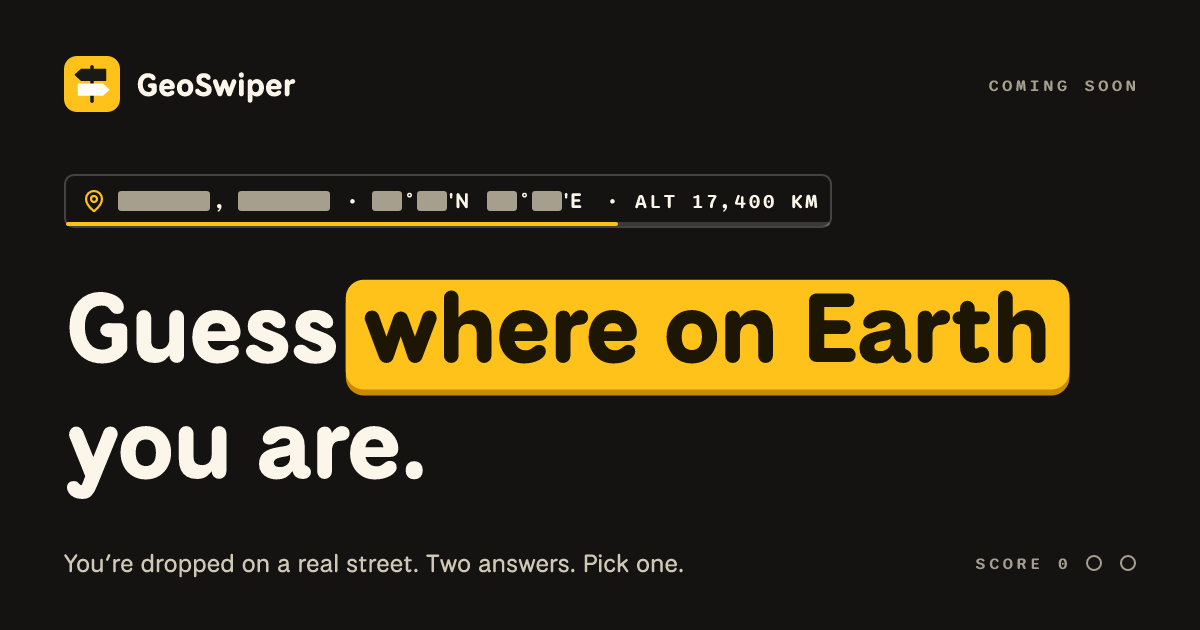
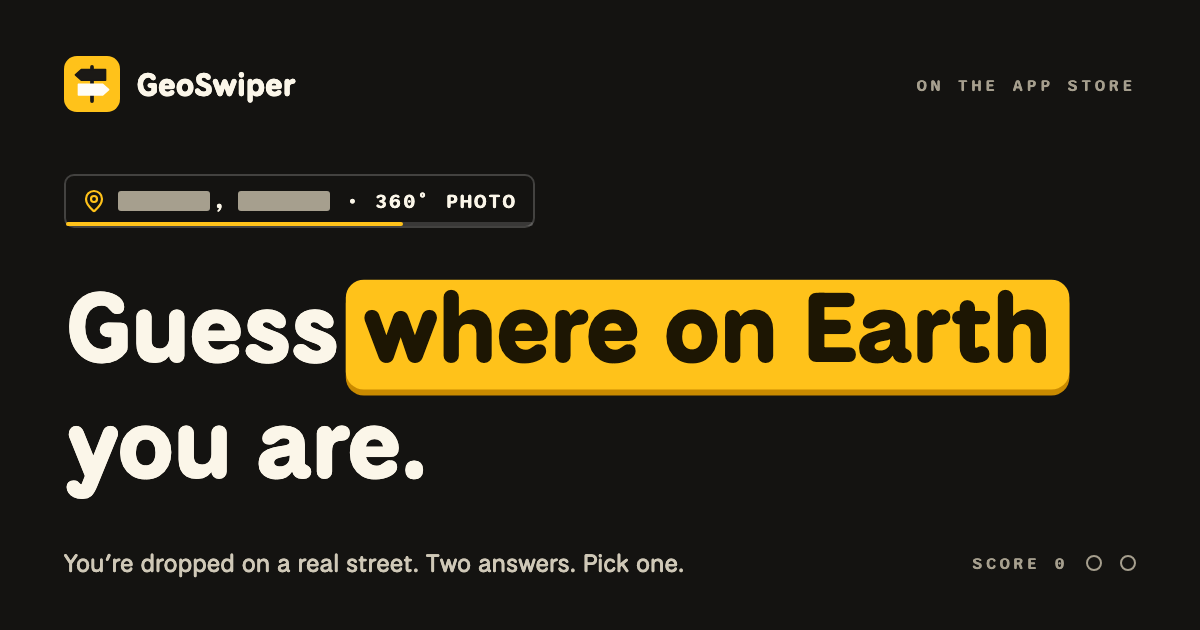
Homepage: App Store link live, no coordinates on the hero
Every App Store button now links to the live listing, also without
JavaScript. The hero's location chip and the share image no longer show
coordinates, and the share image says the app is on the App Store.

diff --git a/index.html b/index.html
@@ -4,7 +4,7 @@
 <meta charset="utf-8">
 <meta name="viewport" content="width=device-width, initial-scale=1, viewport-fit=cover">
 <title>GeoSwiper: guess where on Earth you are</title>
-<meta name="description" content="GeoSwiper drops you onto a real street somewhere in the world. Look around, walk down the road, and pick one of two answers before the clock runs out. Coming soon to the App Store and Google Play.">
+<meta name="description" content="GeoSwiper drops you onto a real street somewhere in the world. Look around, walk down the road, and pick one of two answers before the clock runs out. On the App Store now; coming soon to Google Play.">
 <link rel="canonical" href="https://geoswiper.com/">
 <!-- the top of this page is the night header of the stage in both themes, so the browser bar is night too -->
 <meta name="theme-color" content="#141311" data-fixed>
@@ -70,14 +70,13 @@
   <a class="skip skip--stage" href="#answers">Skip to the two answers</a>
 
   <!-- The header: its own row above the window, in the stage's night, so the first screen is one piece
-       with the paper dock below. The App Store button reads "Coming soon" until APP_STORE_URL is set
-       in assets/site.js. -->
+       with the paper dock below. The App Store button links to APP_STORE_URL in assets/site.js. -->
   <header class="site-header">
     <div class="bar">
       <a class="brand" href="/" aria-label="GeoSwiper home"><picture><source srcset="/assets/icon-96.webp" type="image/webp"><img src="/icon-192.png" width="192" height="192" alt=""></picture><span>GeoSwiper</span></a>
       <nav class="nav-links" aria-label="Primary"><a href="#rules">The rules</a></nav>
       <button type="button" class="iconbtn theme-toggle" data-theme-toggle hidden aria-label="Switch to dark theme"><svg class="i" aria-hidden="true"><use href="#i-moon"/></svg></button>
-      <a class="store" href="#get" data-app-store><svg class="mark" viewBox="0 0 24 24" aria-hidden="true" focusable="false"><path d="M12.152 6.896c-.948 0-2.415-1.078-3.96-1.04-2.04.027-3.91 1.183-4.961 3.014-2.117 3.675-.546 9.103 1.519 12.09 1.013 1.454 2.208 3.09 3.792 3.039 1.52-.065 2.09-.987 3.935-.987 1.831 0 2.35.987 3.96.948 1.637-.026 2.676-1.48 3.676-2.948 1.156-1.688 1.636-3.325 1.662-3.415-.039-.013-3.182-1.221-3.22-4.857-.026-3.04 2.48-4.494 2.597-4.559-1.429-2.09-3.623-2.324-4.39-2.376-2-.156-3.675 1.09-4.61 1.09zM15.53 3.83c.843-1.012 1.4-2.427 1.245-3.83-1.207.052-2.662.805-3.532 1.818-.78.896-1.454 2.338-1.273 3.714 1.338.104 2.715-.688 3.559-1.701"/></svg><span class="store-t"><small data-store-line>Coming soon</small> <b>App Store</b></span></a>
+      <a class="store" href="https://apps.apple.com/us/app/geoswiper/id6787602895" data-app-store data-live><svg class="mark" viewBox="0 0 24 24" aria-hidden="true" focusable="false"><path d="M12.152 6.896c-.948 0-2.415-1.078-3.96-1.04-2.04.027-3.91 1.183-4.961 3.014-2.117 3.675-.546 9.103 1.519 12.09 1.013 1.454 2.208 3.09 3.792 3.039 1.52-.065 2.09-.987 3.935-.987 1.831 0 2.35.987 3.96.948 1.637-.026 2.676-1.48 3.676-2.948 1.156-1.688 1.636-3.325 1.662-3.415-.039-.013-3.182-1.221-3.22-4.857-.026-3.04 2.48-4.494 2.597-4.559-1.429-2.09-3.623-2.324-4.39-2.376-2-.156-3.675 1.09-4.61 1.09zM15.53 3.83c.843-1.012 1.4-2.427 1.245-3.83-1.207.052-2.662.805-3.532 1.818-.78.896-1.454 2.338-1.273 3.714 1.338.104 2.715-.688 3.559-1.701"/></svg><span class="store-t"><small data-store-line>Download on the</small> <b>App Store</b></span></a>
     </div>
   </header>
 
@@ -128,7 +127,7 @@
       <button type="button" class="btn btn--go" id="next" hidden>Next place <svg class="i" aria-hidden="true"><use href="#i-arrow-right"/></svg></button>
       <div class="ends" id="ends" hidden>
         <button type="button" class="btn btn--go" id="again"><svg class="i" aria-hidden="true"><use href="#i-rotate"/></svg><span>Try again</span></button>
-        <a class="btn btn--line" id="soon" href="#get">The app is coming soon</a>
+        <a class="btn btn--line" id="soon" href="https://apps.apple.com/us/app/geoswiper/id6787602895">Get the app on the App Store</a>
       </div>
     </div>
     <div class="dock-meta">
@@ -164,9 +163,9 @@
   <div class="wrap get-inner">
     <picture><source srcset="/assets/icon-168.webp" type="image/webp"><img class="get-icon" src="/icon-192.png" width="192" height="192" alt="" loading="lazy" decoding="async"></picture>
     <h2 id="get-h">Think you know the world?</h2>
-    <p class="lede">GeoSwiper is coming soon to the App Store and Google Play.</p>
+    <p class="lede">GeoSwiper is out now on the App Store, and coming soon to Google Play.</p>
     <ul class="plaques" aria-label="Availability">
-      <li class="plaque" data-app-store><svg class="mark" viewBox="0 0 24 24" aria-hidden="true" focusable="false"><path d="M12.152 6.896c-.948 0-2.415-1.078-3.96-1.04-2.04.027-3.91 1.183-4.961 3.014-2.117 3.675-.546 9.103 1.519 12.09 1.013 1.454 2.208 3.09 3.792 3.039 1.52-.065 2.09-.987 3.935-.987 1.831 0 2.35.987 3.96.948 1.637-.026 2.676-1.48 3.676-2.948 1.156-1.688 1.636-3.325 1.662-3.415-.039-.013-3.182-1.221-3.22-4.857-.026-3.04 2.48-4.494 2.597-4.559-1.429-2.09-3.623-2.324-4.39-2.376-2-.156-3.675 1.09-4.61 1.09zM15.53 3.83c.843-1.012 1.4-2.427 1.245-3.83-1.207.052-2.662.805-3.532 1.818-.78.896-1.454 2.338-1.273 3.714 1.338.104 2.715-.688 3.559-1.701"/></svg><span><small data-store-line>Coming soon</small> <b>App Store</b></span></li>
+      <li class="plaque" data-app-store><svg class="mark" viewBox="0 0 24 24" aria-hidden="true" focusable="false"><path d="M12.152 6.896c-.948 0-2.415-1.078-3.96-1.04-2.04.027-3.91 1.183-4.961 3.014-2.117 3.675-.546 9.103 1.519 12.09 1.013 1.454 2.208 3.09 3.792 3.039 1.52-.065 2.09-.987 3.935-.987 1.831 0 2.35.987 3.96.948 1.637-.026 2.676-1.48 3.676-2.948 1.156-1.688 1.636-3.325 1.662-3.415-.039-.013-3.182-1.221-3.22-4.857-.026-3.04 2.48-4.494 2.597-4.559-1.429-2.09-3.623-2.324-4.39-2.376-2-.156-3.675 1.09-4.61 1.09zM15.53 3.83c.843-1.012 1.4-2.427 1.245-3.83-1.207.052-2.662.805-3.532 1.818-.78.896-1.454 2.338-1.273 3.714 1.338.104 2.715-.688 3.559-1.701"/></svg><span><small data-store-line>Download on the</small> <b>App Store</b></span></li>
       <li class="plaque"><svg class="mark" viewBox="0 0 24 24" aria-hidden="true" focusable="false"><path d="M22.018 13.298l-3.919 2.218-3.515-3.493 3.543-3.521 3.891 2.202a1.49 1.49 0 0 1 0 2.594zM1.337.924a1.486 1.486 0 0 0-.112.568v21.017c0 .217.045.419.124.6l11.155-11.087L1.337.924zm12.207 10.065l3.258-3.238L3.45.195a1.466 1.466 0 0 0-.946-.179l11.04 10.973zm0 2.067l-11 10.933c.298.036.612-.016.906-.183l13.324-7.54-3.23-3.21z"/></svg><span><small>Coming soon</small> <b>Google Play</b></span></li>
     </ul>
   </div>

diff --git a/credits/index.html b/credits/index.html
@@ -45,7 +45,7 @@
     <a class="brand" href="/" aria-label="GeoSwiper home"><picture><source srcset="/assets/icon-96.webp" type="image/webp"><img src="/icon-192.png" width="192" height="192" alt=""></picture><span>GeoSwiper</span></a>
     <nav class="nav-links" aria-label="Primary"><a href="/">Play a round</a><a href="/#rules">The rules</a></nav>
     <button type="button" class="iconbtn theme-toggle" data-theme-toggle hidden aria-label="Switch to dark theme"><svg class="i" aria-hidden="true"><use href="#i-moon"/></svg></button>
-    <a class="store" href="/#get" data-app-store><svg class="mark" viewBox="0 0 24 24" aria-hidden="true" focusable="false"><path d="M12.152 6.896c-.948 0-2.415-1.078-3.96-1.04-2.04.027-3.91 1.183-4.961 3.014-2.117 3.675-.546 9.103 1.519 12.09 1.013 1.454 2.208 3.09 3.792 3.039 1.52-.065 2.09-.987 3.935-.987 1.831 0 2.35.987 3.96.948 1.637-.026 2.676-1.48 3.676-2.948 1.156-1.688 1.636-3.325 1.662-3.415-.039-.013-3.182-1.221-3.22-4.857-.026-3.04 2.48-4.494 2.597-4.559-1.429-2.09-3.623-2.324-4.39-2.376-2-.156-3.675 1.09-4.61 1.09zM15.53 3.83c.843-1.012 1.4-2.427 1.245-3.83-1.207.052-2.662.805-3.532 1.818-.78.896-1.454 2.338-1.273 3.714 1.338.104 2.715-.688 3.559-1.701"/></svg><span class="store-t"><small data-store-line>Coming soon</small> <b>App Store</b></span></a>
+    <a class="store" href="https://apps.apple.com/us/app/geoswiper/id6787602895" data-app-store data-live><svg class="mark" viewBox="0 0 24 24" aria-hidden="true" focusable="false"><path d="M12.152 6.896c-.948 0-2.415-1.078-3.96-1.04-2.04.027-3.91 1.183-4.961 3.014-2.117 3.675-.546 9.103 1.519 12.09 1.013 1.454 2.208 3.09 3.792 3.039 1.52-.065 2.09-.987 3.935-.987 1.831 0 2.35.987 3.96.948 1.637-.026 2.676-1.48 3.676-2.948 1.156-1.688 1.636-3.325 1.662-3.415-.039-.013-3.182-1.221-3.22-4.857-.026-3.04 2.48-4.494 2.597-4.559-1.429-2.09-3.623-2.324-4.39-2.376-2-.156-3.675 1.09-4.61 1.09zM15.53 3.83c.843-1.012 1.4-2.427 1.245-3.83-1.207.052-2.662.805-3.532 1.818-.78.896-1.454 2.338-1.273 3.714 1.338.104 2.715-.688 3.559-1.701"/></svg><span class="store-t"><small data-store-line>Download on the</small> <b>App Store</b></span></a>
   </div>
 </header>
 <main id="main" class="page">

diff --git a/privacy/index.html b/privacy/index.html
@@ -45,7 +45,7 @@
     <a class="brand" href="/" aria-label="GeoSwiper home"><picture><source srcset="/assets/icon-96.webp" type="image/webp"><img src="/icon-192.png" width="192" height="192" alt=""></picture><span>GeoSwiper</span></a>
     <nav class="nav-links" aria-label="Primary"><a href="/">Play a round</a><a href="/#rules">The rules</a></nav>
     <button type="button" class="iconbtn theme-toggle" data-theme-toggle hidden aria-label="Switch to dark theme"><svg class="i" aria-hidden="true"><use href="#i-moon"/></svg></button>
-    <a class="store" href="/#get" data-app-store><svg class="mark" viewBox="0 0 24 24" aria-hidden="true" focusable="false"><path d="M12.152 6.896c-.948 0-2.415-1.078-3.96-1.04-2.04.027-3.91 1.183-4.961 3.014-2.117 3.675-.546 9.103 1.519 12.09 1.013 1.454 2.208 3.09 3.792 3.039 1.52-.065 2.09-.987 3.935-.987 1.831 0 2.35.987 3.96.948 1.637-.026 2.676-1.48 3.676-2.948 1.156-1.688 1.636-3.325 1.662-3.415-.039-.013-3.182-1.221-3.22-4.857-.026-3.04 2.48-4.494 2.597-4.559-1.429-2.09-3.623-2.324-4.39-2.376-2-.156-3.675 1.09-4.61 1.09zM15.53 3.83c.843-1.012 1.4-2.427 1.245-3.83-1.207.052-2.662.805-3.532 1.818-.78.896-1.454 2.338-1.273 3.714 1.338.104 2.715-.688 3.559-1.701"/></svg><span class="store-t"><small data-store-line>Coming soon</small> <b>App Store</b></span></a>
+    <a class="store" href="https://apps.apple.com/us/app/geoswiper/id6787602895" data-app-store data-live><svg class="mark" viewBox="0 0 24 24" aria-hidden="true" focusable="false"><path d="M12.152 6.896c-.948 0-2.415-1.078-3.96-1.04-2.04.027-3.91 1.183-4.961 3.014-2.117 3.675-.546 9.103 1.519 12.09 1.013 1.454 2.208 3.09 3.792 3.039 1.52-.065 2.09-.987 3.935-.987 1.831 0 2.35.987 3.96.948 1.637-.026 2.676-1.48 3.676-2.948 1.156-1.688 1.636-3.325 1.662-3.415-.039-.013-3.182-1.221-3.22-4.857-.026-3.04 2.48-4.494 2.597-4.559-1.429-2.09-3.623-2.324-4.39-2.376-2-.156-3.675 1.09-4.61 1.09zM15.53 3.83c.843-1.012 1.4-2.427 1.245-3.83-1.207.052-2.662.805-3.532 1.818-.78.896-1.454 2.338-1.273 3.714 1.338.104 2.715-.688 3.559-1.701"/></svg><span class="store-t"><small data-store-line>Download on the</small> <b>App Store</b></span></a>
   </div>
 </header>
 <main id="main" class="page">

diff --git a/support/index.html b/support/index.html
@@ -45,7 +45,7 @@
     <a class="brand" href="/" aria-label="GeoSwiper home"><picture><source srcset="/assets/icon-96.webp" type="image/webp"><img src="/icon-192.png" width="192" height="192" alt=""></picture><span>GeoSwiper</span></a>
     <nav class="nav-links" aria-label="Primary"><a href="/">Play a round</a><a href="/#rules">The rules</a></nav>
     <button type="button" class="iconbtn theme-toggle" data-theme-toggle hidden aria-label="Switch to dark theme"><svg class="i" aria-hidden="true"><use href="#i-moon"/></svg></button>
-    <a class="store" href="/#get" data-app-store><svg class="mark" viewBox="0 0 24 24" aria-hidden="true" focusable="false"><path d="M12.152 6.896c-.948 0-2.415-1.078-3.96-1.04-2.04.027-3.91 1.183-4.961 3.014-2.117 3.675-.546 9.103 1.519 12.09 1.013 1.454 2.208 3.09 3.792 3.039 1.52-.065 2.09-.987 3.935-.987 1.831 0 2.35.987 3.96.948 1.637-.026 2.676-1.48 3.676-2.948 1.156-1.688 1.636-3.325 1.662-3.415-.039-.013-3.182-1.221-3.22-4.857-.026-3.04 2.48-4.494 2.597-4.559-1.429-2.09-3.623-2.324-4.39-2.376-2-.156-3.675 1.09-4.61 1.09zM15.53 3.83c.843-1.012 1.4-2.427 1.245-3.83-1.207.052-2.662.805-3.532 1.818-.78.896-1.454 2.338-1.273 3.714 1.338.104 2.715-.688 3.559-1.701"/></svg><span class="store-t"><small data-store-line>Coming soon</small> <b>App Store</b></span></a>
+    <a class="store" href="https://apps.apple.com/us/app/geoswiper/id6787602895" data-app-store data-live><svg class="mark" viewBox="0 0 24 24" aria-hidden="true" focusable="false"><path d="M12.152 6.896c-.948 0-2.415-1.078-3.96-1.04-2.04.027-3.91 1.183-4.961 3.014-2.117 3.675-.546 9.103 1.519 12.09 1.013 1.454 2.208 3.09 3.792 3.039 1.52-.065 2.09-.987 3.935-.987 1.831 0 2.35.987 3.96.948 1.637-.026 2.676-1.48 3.676-2.948 1.156-1.688 1.636-3.325 1.662-3.415-.039-.013-3.182-1.221-3.22-4.857-.026-3.04 2.48-4.494 2.597-4.559-1.429-2.09-3.623-2.324-4.39-2.376-2-.156-3.675 1.09-4.61 1.09zM15.53 3.83c.843-1.012 1.4-2.427 1.245-3.83-1.207.052-2.662.805-3.532 1.818-.78.896-1.454 2.338-1.273 3.714 1.338.104 2.715-.688 3.559-1.701"/></svg><span class="store-t"><small data-store-line>Download on the</small> <b>App Store</b></span></a>
   </div>
 </header>
 <main id="main" class="page">

diff --git a/terms/index.html b/terms/index.html
@@ -45,7 +45,7 @@
     <a class="brand" href="/" aria-label="GeoSwiper home"><picture><source srcset="/assets/icon-96.webp" type="image/webp"><img src="/icon-192.png" width="192" height="192" alt=""></picture><span>GeoSwiper</span></a>
     <nav class="nav-links" aria-label="Primary"><a href="/">Play a round</a><a href="/#rules">The rules</a></nav>
     <button type="button" class="iconbtn theme-toggle" data-theme-toggle hidden aria-label="Switch to dark theme"><svg class="i" aria-hidden="true"><use href="#i-moon"/></svg></button>
-    <a class="store" href="/#get" data-app-store><svg class="mark" viewBox="0 0 24 24" aria-hidden="true" focusable="false"><path d="M12.152 6.896c-.948 0-2.415-1.078-3.96-1.04-2.04.027-3.91 1.183-4.961 3.014-2.117 3.675-.546 9.103 1.519 12.09 1.013 1.454 2.208 3.09 3.792 3.039 1.52-.065 2.09-.987 3.935-.987 1.831 0 2.35.987 3.96.948 1.637-.026 2.676-1.48 3.676-2.948 1.156-1.688 1.636-3.325 1.662-3.415-.039-.013-3.182-1.221-3.22-4.857-.026-3.04 2.48-4.494 2.597-4.559-1.429-2.09-3.623-2.324-4.39-2.376-2-.156-3.675 1.09-4.61 1.09zM15.53 3.83c.843-1.012 1.4-2.427 1.245-3.83-1.207.052-2.662.805-3.532 1.818-.78.896-1.454 2.338-1.273 3.714 1.338.104 2.715-.688 3.559-1.701"/></svg><span class="store-t"><small data-store-line>Coming soon</small> <b>App Store</b></span></a>
+    <a class="store" href="https://apps.apple.com/us/app/geoswiper/id6787602895" data-app-store data-live><svg class="mark" viewBox="0 0 24 24" aria-hidden="true" focusable="false"><path d="M12.152 6.896c-.948 0-2.415-1.078-3.96-1.04-2.04.027-3.91 1.183-4.961 3.014-2.117 3.675-.546 9.103 1.519 12.09 1.013 1.454 2.208 3.09 3.792 3.039 1.52-.065 2.09-.987 3.935-.987 1.831 0 2.35.987 3.96.948 1.637-.026 2.676-1.48 3.676-2.948 1.156-1.688 1.636-3.325 1.662-3.415-.039-.013-3.182-1.221-3.22-4.857-.026-3.04 2.48-4.494 2.597-4.559-1.429-2.09-3.623-2.324-4.39-2.376-2-.156-3.675 1.09-4.61 1.09zM15.53 3.83c.843-1.012 1.4-2.427 1.245-3.83-1.207.052-2.662.805-3.532 1.818-.78.896-1.454 2.338-1.273 3.714 1.338.104 2.715-.688 3.559-1.701"/></svg><span class="store-t"><small data-store-line>Download on the</small> <b>App Store</b></span></a>
   </div>
 </header>
 <main id="main" class="page">

diff --git a/assets/try.js b/assets/try.js
@@ -37,7 +37,7 @@
   var calm = w.matchMedia('(prefers-reduced-motion: reduce)').matches;
   var tall = w.matchMedia('(max-aspect-ratio: 1/1)');
   var compact = w.matchMedia('(max-width: 899px), (max-height: 520px) and (orientation: landscape)');
-  var RED = '██████, ██████', RED_AT = '██°██′N ██°██′E';
+  var RED = '██████, ██████';
 
   /* ── Places ──────────────────────────────────────────────────────────────
      Live: the coordinates of a street we chose, its ground height (metres above sea level)
@@ -172,14 +172,10 @@
   function slateNow() {
     var short = compact.matches, p = P();
     if (layer === 'photo') return revealed ? (short ? p.name : p.where).toUpperCase() : RED + ' · 360° PHOTO';
-    if (revealed) return p.name.toUpperCase() + (short || !spot ? '' : ' · ' + dm(spot.lat, 'N', 'S') + ' ' + dm(spot.lng, 'E', 'W'));
-    return RED + (short ? '' : ' · ' + RED_AT) + ' · ' + altText;
+    if (revealed) return p.name.toUpperCase();
+    return RED + ' · ' + altText;
   }
   function slate() { slateJob++; paintSlate(slateNow()); }
-  function dm(v, pos, neg) {
-    var a = Math.abs(v), deg = Math.floor(a), min = Math.floor((a - deg) * 60);
-    return deg + '°' + (min < 10 ? '0' : '') + min + '′' + (v < 0 ? neg : pos);
-  }
   function unredact() {
     var from = slateText.textContent, to, n, i = 0, mine;
     revealed = true;

diff --git a/assets/site.css b/assets/site.css
@@ -168,7 +168,7 @@ h1 em{font-style:normal;padding:0 .16em .04em;margin:0 -.04em;border-radius:.18e
    button on the right. It is paper on every page but the home page, where it is the stage's first
    row and wears the stage's night (see the stage). Its colours are the --hdr-* and --cta-* tokens,
    so one set of rules draws both. The App Store button is a small version of the plaques in the app
-   section; it reads "Coming soon" until APP_STORE_URL is set in assets/site.js. */
+   section; it links to APP_STORE_URL in assets/site.js. */
 .site-header{--hdr:64px;--hdr-bg:rgba(var(--paper-rgb),.86);--hdr-fg:var(--ink);--hdr-fg-2:var(--ink-2);--hdr-hair:var(--line);--hdr-rule:var(--line-2);--hdr-hover:rgba(var(--ink-rgb),.06);--hdr-accent:var(--sun);--hdr-icon-ring:0 0 0 1px rgba(27,25,22,.08),0 1px 3px rgba(27,25,22,.28);--cta-bg:var(--ink);--cta-fg:var(--paper);position:sticky;top:0;z-index:50;background:var(--hdr-bg);color:var(--hdr-fg);-webkit-backdrop-filter:saturate(1.6) blur(16px);backdrop-filter:saturate(1.6) blur(16px);border-bottom:1px solid var(--hdr-hair)}
 .bar{display:flex;align-items:center;gap:4px;height:var(--hdr)}
 .brand{flex:none;display:inline-flex;align-items:center;gap:11px;font:800 1.375rem/1 var(--display);letter-spacing:-.02em;text-decoration:none;color:inherit}

diff --git a/assets/site.js b/assets/site.js
@@ -3,7 +3,7 @@
    The App Store link. While this is empty every App Store button and plaque reads "Coming soon"
    and goes to the app section of the home page. Set it to the app's App Store address once the
    app is live, and they all read "Download on the App Store" and go there. */
-var APP_STORE_URL = '';
+var APP_STORE_URL = 'https://apps.apple.com/us/app/geoswiper/id6787602895';
 
 /* The theme switch. The theme follows the device until the visitor picks one. Picking the
    device's own setting again hands control back to the device. */
